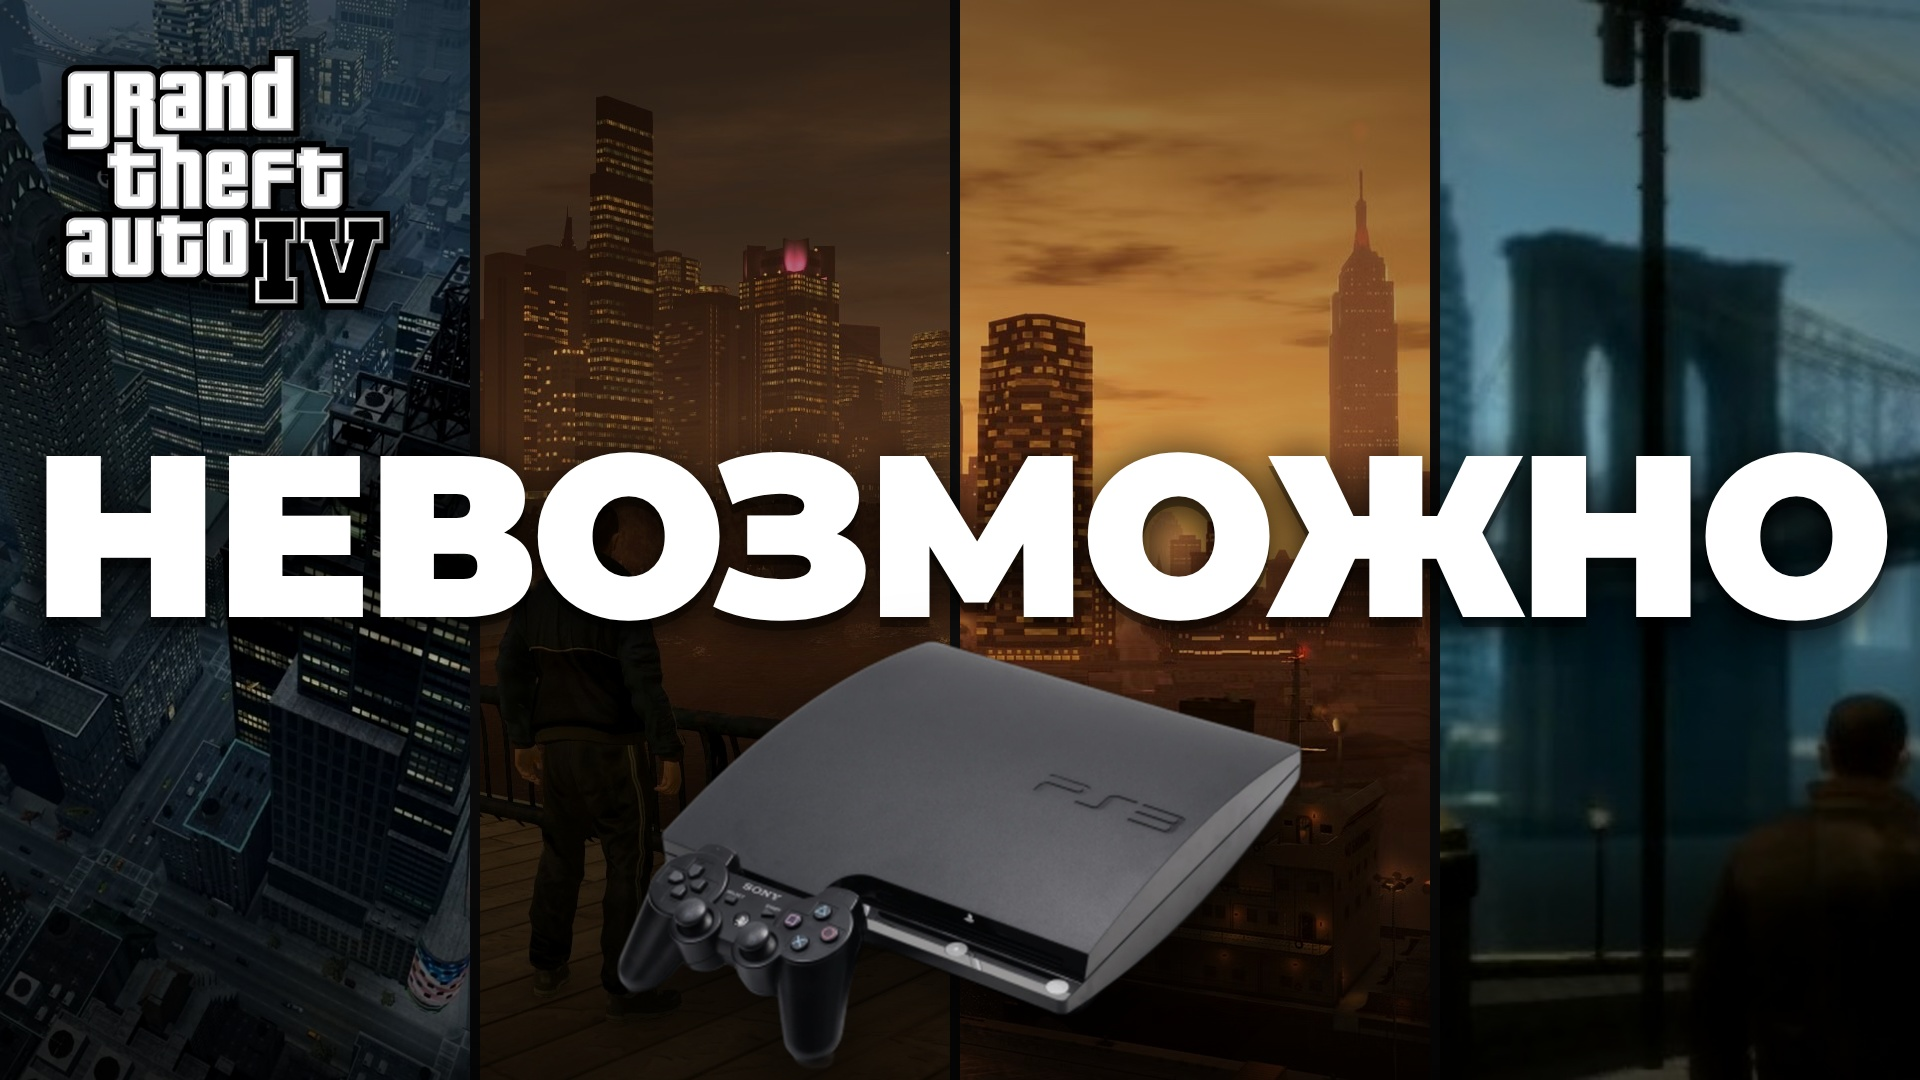
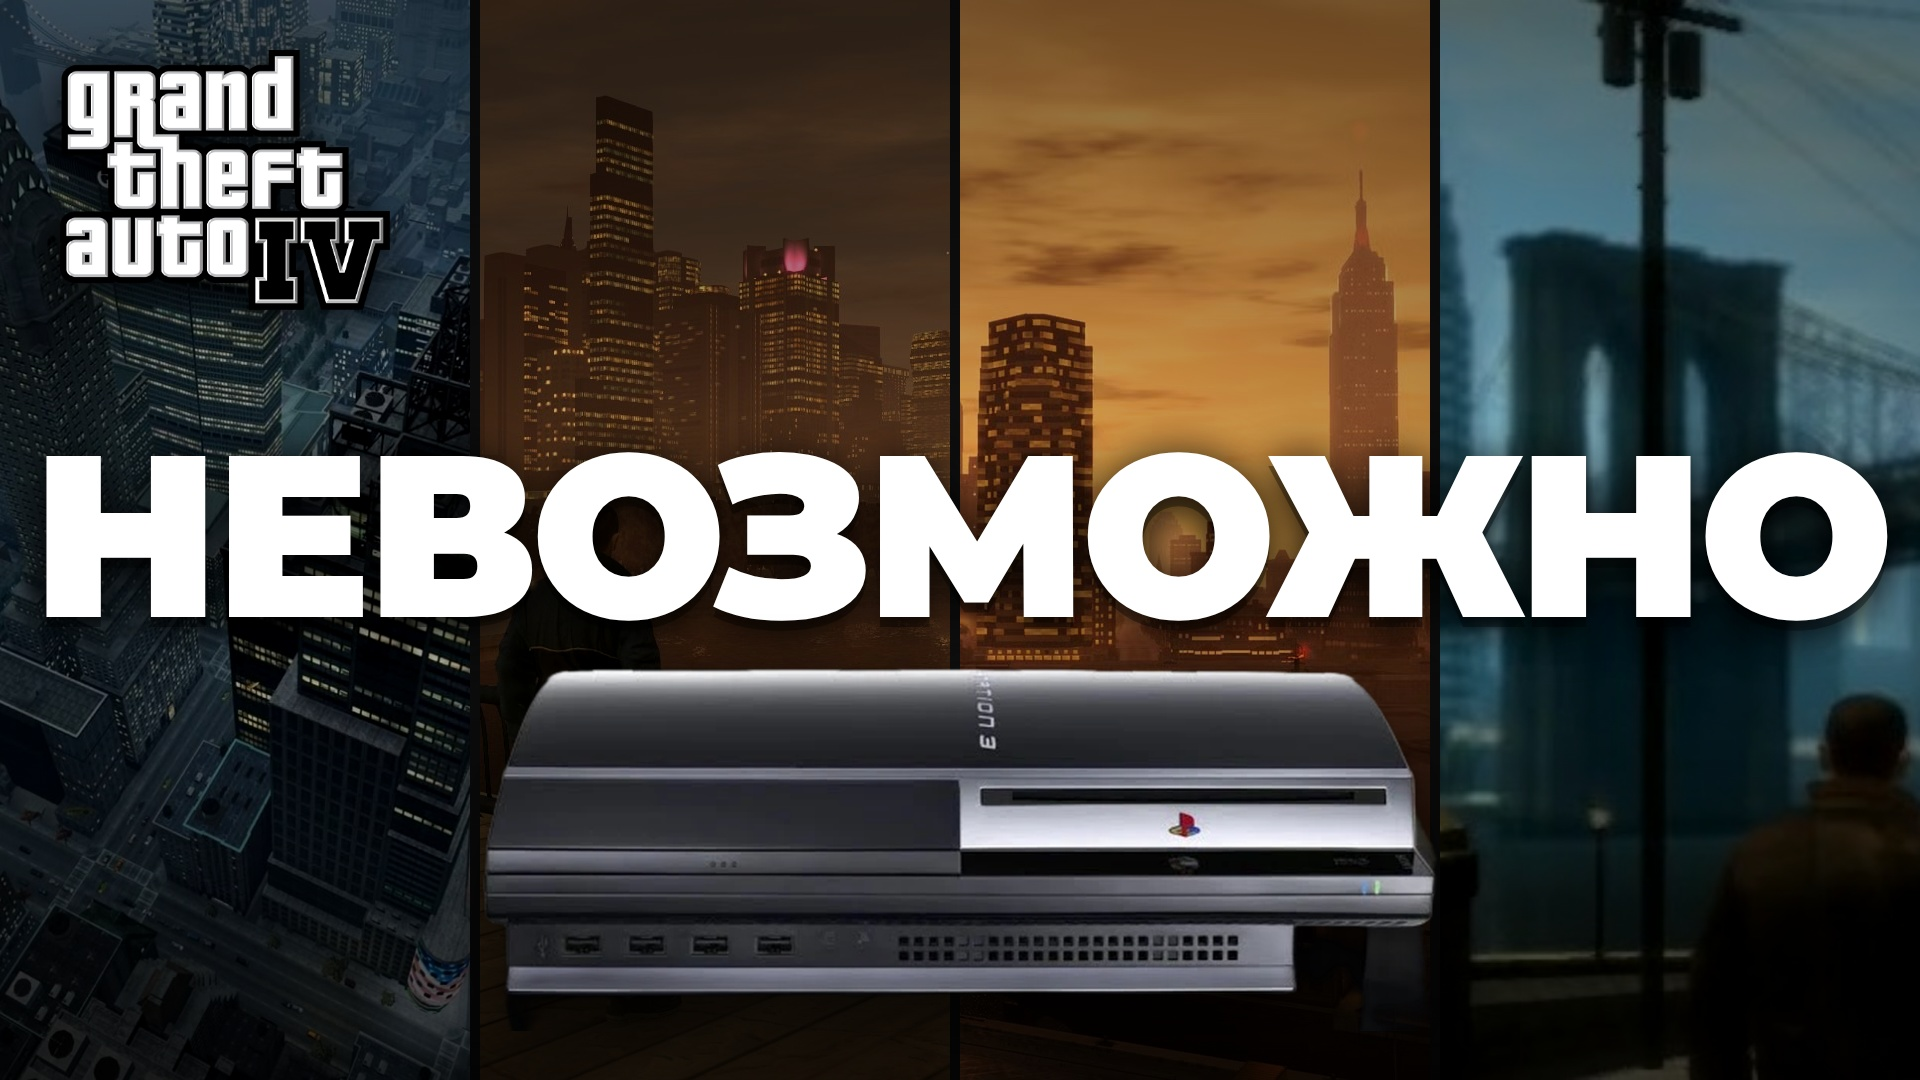
GTA 4 thumbnails: use horizontal PS3 Fat cut from the reference
Claude-Session: https://claude.ai/code/session_01RHFrx85Hg5RpkQEmnVQQfw

Changed region(s): [[0.25, 0.5806, 0.75, 0.9778]]

diff --git a/gta4_ps3/thumb/thumb.html b/gta4_ps3/thumb/thumb.html
@@ -18,7 +18,7 @@ html,body{width:1920px;height:1080px;overflow:hidden;background:#111;font-family
 <div class="shade"></div>
 <img class="logo" src="/gta4_ps3/assets/gta4_logo.png" style="left:60px;top:50px;width:330px">
 <div class="t" id="t" style="top:420px;font-size:230px">НЕВОЗМОЖНО</div>
-<img class="ps" src="/gta4_ps3/assets/ps3_slim.png" style="top:640px;height:430px">
+<img class="ps" src="/gta4_ps3/assets/ps3_fat_flat.png" style="top:665px;width:960px">
 <script>
 const q=new URLSearchParams(location.search);
 if(q.get('t')){const t=document.getElementById('t');t.innerHTML=q.get('t');if(q.get('s'))t.style.fontSize=q.get('s')+'px';if(q.get('y'))t.style.top=q.get('y')+'px';}
